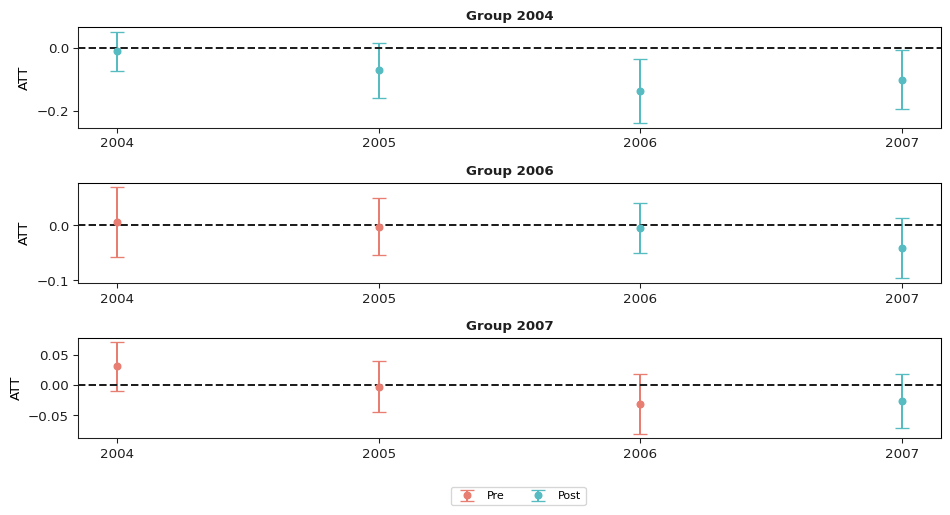
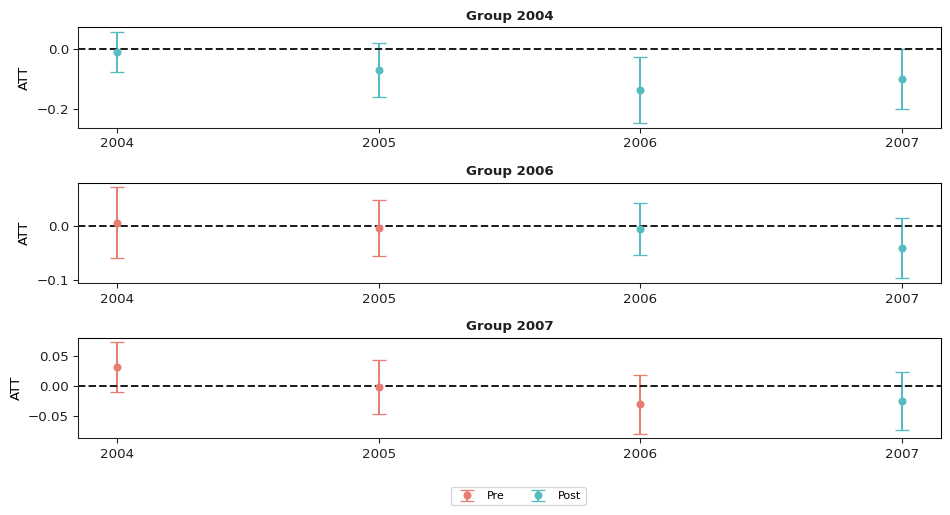
Update Readme

diff --git a/README.md b/README.md
@@ -127,18 +127,18 @@ out.summ_attgt().summary2
 
 |     | Group | Time | ATT(g, t) | Post | Std. Error | \[95% Pointwise | Conf. Band\] |     |
 |-----|-------|------|-----------|------|------------|-----------------|--------------|-----|
-| 0   | 2004  | 2004 | -0.0105   | 0    | 0.0237     | -0.0722         | 0.0512       |     |
-| 1   | 2004  | 2005 | -0.0704   | 0    | 0.0335     | -0.1578         | 0.0169       |     |
-| 2   | 2004  | 2006 | -0.1373   | 0    | 0.0391     | -0.2393         | -0.0352      | \*  |
-| 3   | 2004  | 2007 | -0.1008   | 0    | 0.0358     | -0.1940         | -0.0076      | \*  |
-| 4   | 2006  | 2004 | 0.0065    | 0    | 0.0242     | -0.0567         | 0.0697       |     |
-| 5   | 2006  | 2005 | -0.0028   | 0    | 0.0199     | -0.0546         | 0.0491       |     |
-| 6   | 2006  | 2006 | -0.0046   | 0    | 0.0177     | -0.0507         | 0.0415       |     |
-| 7   | 2006  | 2007 | -0.0412   | 0    | 0.0212     | -0.0965         | 0.0140       |     |
-| 8   | 2007  | 2004 | 0.0305    | 0    | 0.0152     | -0.0091         | 0.0702       |     |
-| 9   | 2007  | 2005 | -0.0027   | 0    | 0.0160     | -0.0445         | 0.0391       |     |
-| 10  | 2007  | 2006 | -0.0311   | 0    | 0.0188     | -0.0800         | 0.0178       |     |
-| 11  | 2007  | 2007 | -0.0261   | 0    | 0.0172     | -0.0708         | 0.0187       |     |
+| 0   | 2004  | 2004 | -0.0105   | 0    | 0.0241     | -0.0781         | 0.0571       |     |
+| 1   | 2004  | 2005 | -0.0704   | 0    | 0.0324     | -0.1612         | 0.0204       |     |
+| 2   | 2004  | 2006 | -0.1373   | 0    | 0.0393     | -0.2476         | -0.0269      | \*  |
+| 3   | 2004  | 2007 | -0.1008   | 0    | 0.0360     | -0.2017         | 0.0001       |     |
+| 4   | 2006  | 2004 | 0.0065    | 0    | 0.0238     | -0.0601         | 0.0732       |     |
+| 5   | 2006  | 2005 | -0.0028   | 0    | 0.0188     | -0.0554         | 0.0499       |     |
+| 6   | 2006  | 2006 | -0.0046   | 0    | 0.0172     | -0.0528         | 0.0437       |     |
+| 7   | 2006  | 2007 | -0.0412   | 0    | 0.0201     | -0.0976         | 0.0152       |     |
+| 8   | 2007  | 2004 | 0.0305    | 0    | 0.0147     | -0.0108         | 0.0719       |     |
+| 9   | 2007  | 2005 | -0.0027   | 0    | 0.0160     | -0.0476         | 0.0421       |     |
+| 10  | 2007  | 2006 | -0.0311   | 0    | 0.0173     | -0.0796         | 0.0174       |     |
+| 11  | 2007  | 2007 | -0.0261   | 0    | 0.0171     | -0.0740         | 0.0219       |     |
 
 </div>
 
@@ -166,15 +166,15 @@ out.aggte(typec='calendar');
 
     Overall summary of ATT's based on calendar time aggregation:
         ATT Std. Error  [95.0%  Conf. Int.]  
-    -0.0417     0.0179 -0.0768      -0.0066 *
+    -0.0417     0.0169 -0.0748      -0.0086 *
 
 
     Time Effects (calendar):
        Time  Estimate  Std. Error  [95.0% Simult.   Conf. Band   
-    0  2004   -0.0105      0.0262          -0.0619      0.0408   
-    1  2005   -0.0704      0.0300          -0.1293     -0.0116  *
-    2  2006   -0.0488      0.0210          -0.0899     -0.0077  *
-    3  2007   -0.0371      0.0133          -0.0631     -0.0110  *
+    0  2004   -0.0105      0.0244          -0.0584      0.0374   
+    1  2005   -0.0704      0.0307          -0.1305     -0.0103  *
+    2  2006   -0.0488      0.0210          -0.0900     -0.0076  *
+    3  2007   -0.0371      0.0136          -0.0637     -0.0105  *
     ---
     Signif. codes: `*' confidence band does not cover 0
     Control Group:  Never Treated , 
